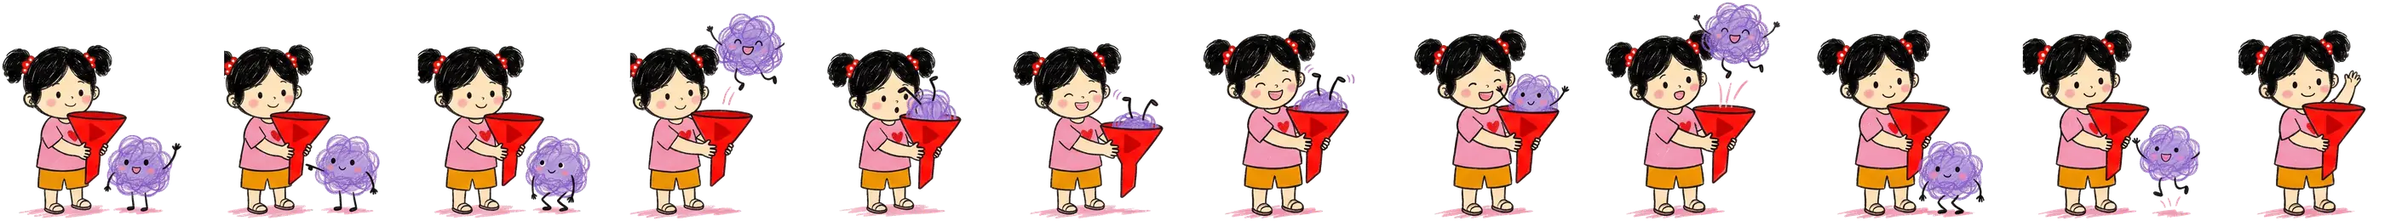
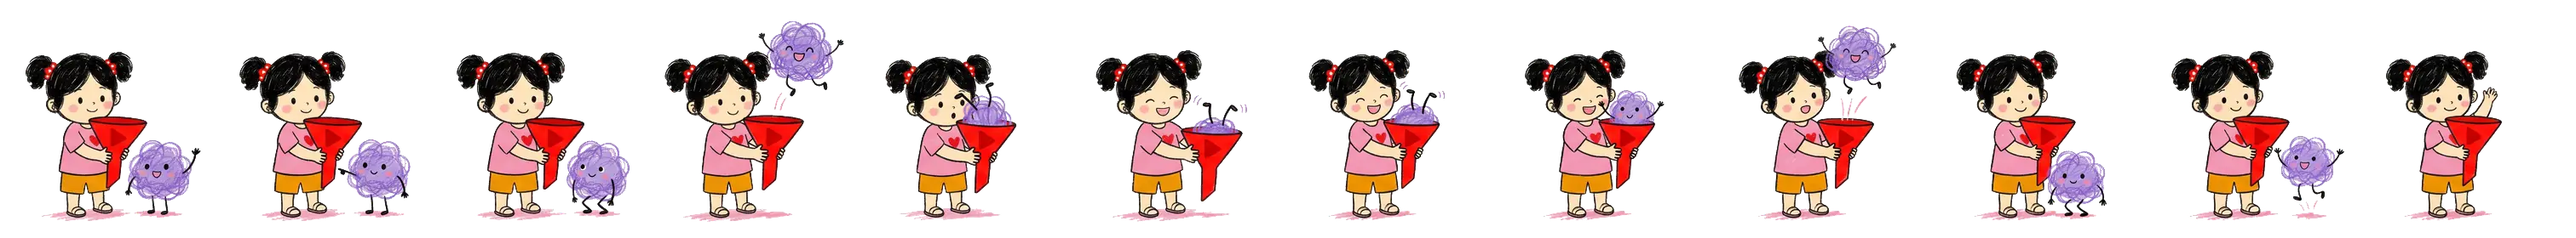
fix(site): re-cut the duo sieve strip so Kriti is whole and still
duo-sieve-v3.webp was a fixed 2x6 grid cut of the v3 sheet (tools/cut-mascots.py):
Kriti's left hair bun was sliced in frames 2 and 4 and she slid sideways frame to
frame. The strip now uses the same re-cut as the apps and extension (ink kept with
its own Kriti, row two scaled to row one, registered on her shorts, padded 0.9:1),
12 frames of 252x280. The sprite box widens to min(16.5rem, 76%) so she reads the
same size inside the new margin; cut-mascots.py no longer regenerates this strip.

Changed region(s): [[0.0, 0.0, 0.9986, 0.9846]]

diff --git a/website/components/how-it-works.js b/website/components/how-it-works.js
@@ -138,7 +138,7 @@ export function HowItWorks() {
           </Reveal>
           <Reveal>
             <figure className="ft-paper ft-paper-ruled mx-auto w-full max-w-[26rem] rounded-[2rem] px-6 pb-5 pt-6">
-              <MascotSprite className="mx-auto w-[min(15rem,70%)]" motion="sieve" />
+              <MascotSprite className="mx-auto w-[min(16.5rem,76%)]" motion="sieve" />
               <figcaption className="mt-3 text-center font-editorial text-xl leading-snug text-[#5d4a40]">
                 Kriti holds the funnel. Uljhan hops through and out of your feed, no hard feelings.
               </figcaption>

diff --git a/website/data/mascots.js b/website/data/mascots.js
@@ -22,7 +22,7 @@ export const poses = {
 // Horizontal strips: `frames` cells of frameWidth x height, played with CSS steps().
 export const motions = {
   sieve: {
-    src: "/mascots/duo-sieve-v3.webp", frames: 12, frameWidth: 235, height: 260, fps: 7, still: 5,
+    src: "/mascots/duo-sieve-v3.webp", frames: 12, frameWidth: 252, height: 280, fps: 7, still: 5,
     alt: "Kriti holds the red FilterTube funnel. Uljhan hops in, wriggles through, and hops out the other side.",
   },
   medal: {

diff --git a/website/tools/cut-mascots.py b/website/tools/cut-mascots.py
@@ -119,7 +119,9 @@ def save_poses(frames, names, height, out_dir, quality=80):
 def main(lib, out):
     os.makedirs(out, exist_ok=True)
     g = os.path.join(lib, "sheets", "generic")
-    save_strip(split_grid(os.path.join(g, "duo_sieve_loop_v3_redfunnel_sheet.png"), 2, 6), 260, os.path.join(out, "duo-sieve-v3.webp"))
+    # duo-sieve-v3.webp is not cut here any more: a fixed 2x6 grid sliced Kriti's hair bun and let her
+    # jitter. It comes from mascot-tools/duo_sieve_fix (ink assigned per Kriti, row two scaled to row one,
+    # frames registered on her shorts, padded 0.9:1 canvas), 12 frames of 252x280.
     save_strip(split_grid(os.path.join(g, "duo_milestone_medal_sheet.png"), 1, 6), 240, os.path.join(out, "duo-medal.webp"))
     untangle_dir = os.path.join(lib, "frames", "duo_offline_untangle")
     untangle = [Image.open(os.path.join(untangle_dir, f)).convert("RGBA") for f in sorted(os.listdir(untangle_dir)) if f.endswith(".png")]
